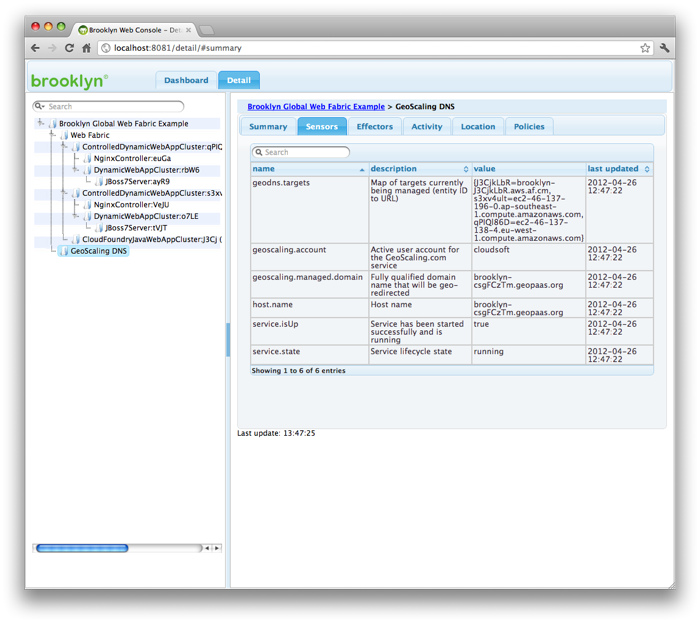
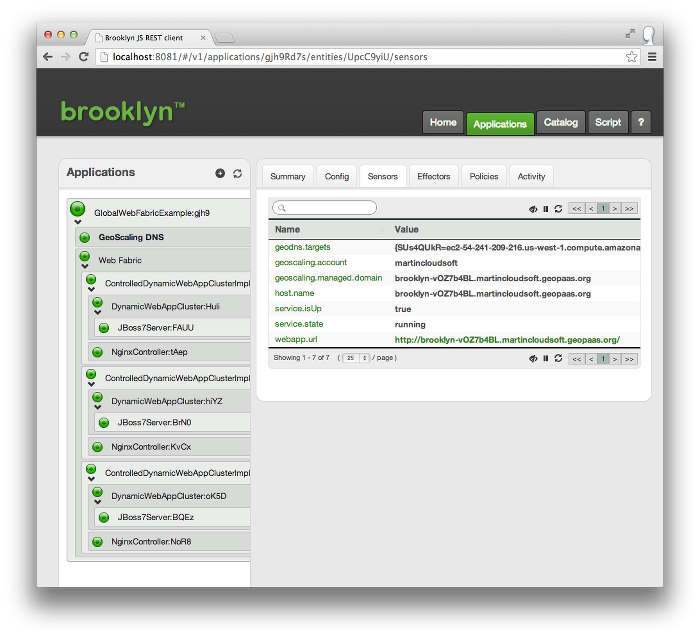
Updated screenshots to show new web GUI

diff --git a/docs/use/examples/global-web-fabric/index.md b/docs/use/examples/global-web-fabric/index.md
@@ -284,9 +284,8 @@ Let's look at the management web console, on port 8081:
 
 [![Web Console Map](console-map-w700.png "Web Console Map")](console-map.png) 
 
-This shows the targets (e.g. Ireland (AWS eu-west-1),  Singapore (AWS ap-southeast-1))
-as well as a few other places (wrong locations picked up for some AWS IP's!).
-This also shows the progress of the most recent tasks.
+This shows the targets (e.g. Ireland (AWS eu-west-1),  Singapore (AWS ap-southeast-1),  and California (AWS us-west-1)
+This also shows the current status of the application.
 
 Navigating to the "applications" tab, we can view sensors, invoke effectors, control policies,
 and track activity, 
@@ -296,7 +295,7 @@ Let's drill down on the Geoscaling DNS entity's sensors:
 
 [![Web Console Geoscaling Details](console-geoscaling-details-w700.png "Web Console Geoscaling Details")](console-geoscaling-details.png)
 
-Here we see it has chosen `brooklyn-csgFCzTM.geopaas.org` as the geo-load-balanced domain name.
+Here we see it has chosen `brooklyn-vOZ7b4BL.martincloudsoft.geopaas.org` as the geo-load-balanced domain name.
 (Yours will be under `yourname.geopaas.org`, unless you chose a different domain earlier.)
 We can also see the hosts it is forwarding to, one for each cluster, corresponding to the
 children of the Web Fabric (propagated from the nginx hostnames, in the case of the ControlledDynamicWebAppCluster instances).
